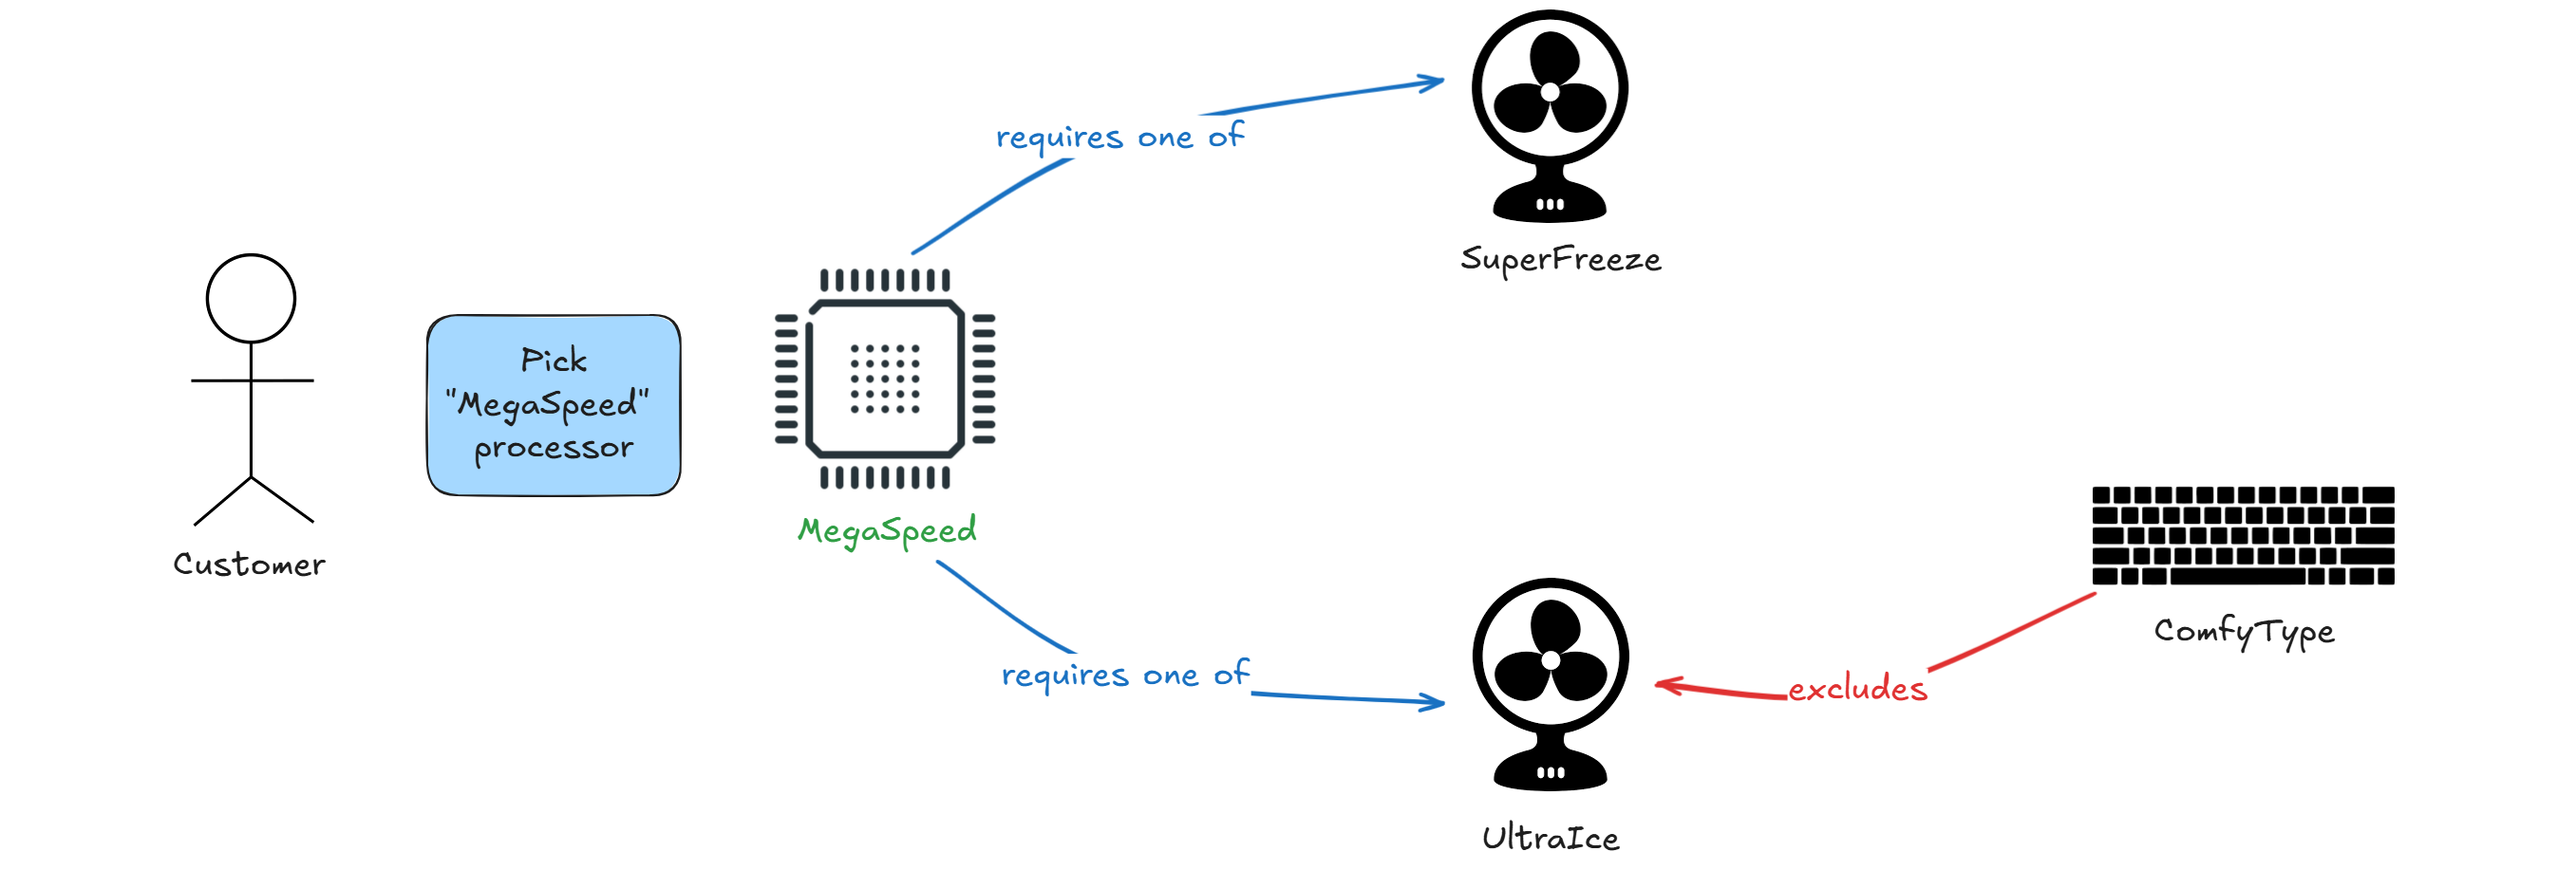
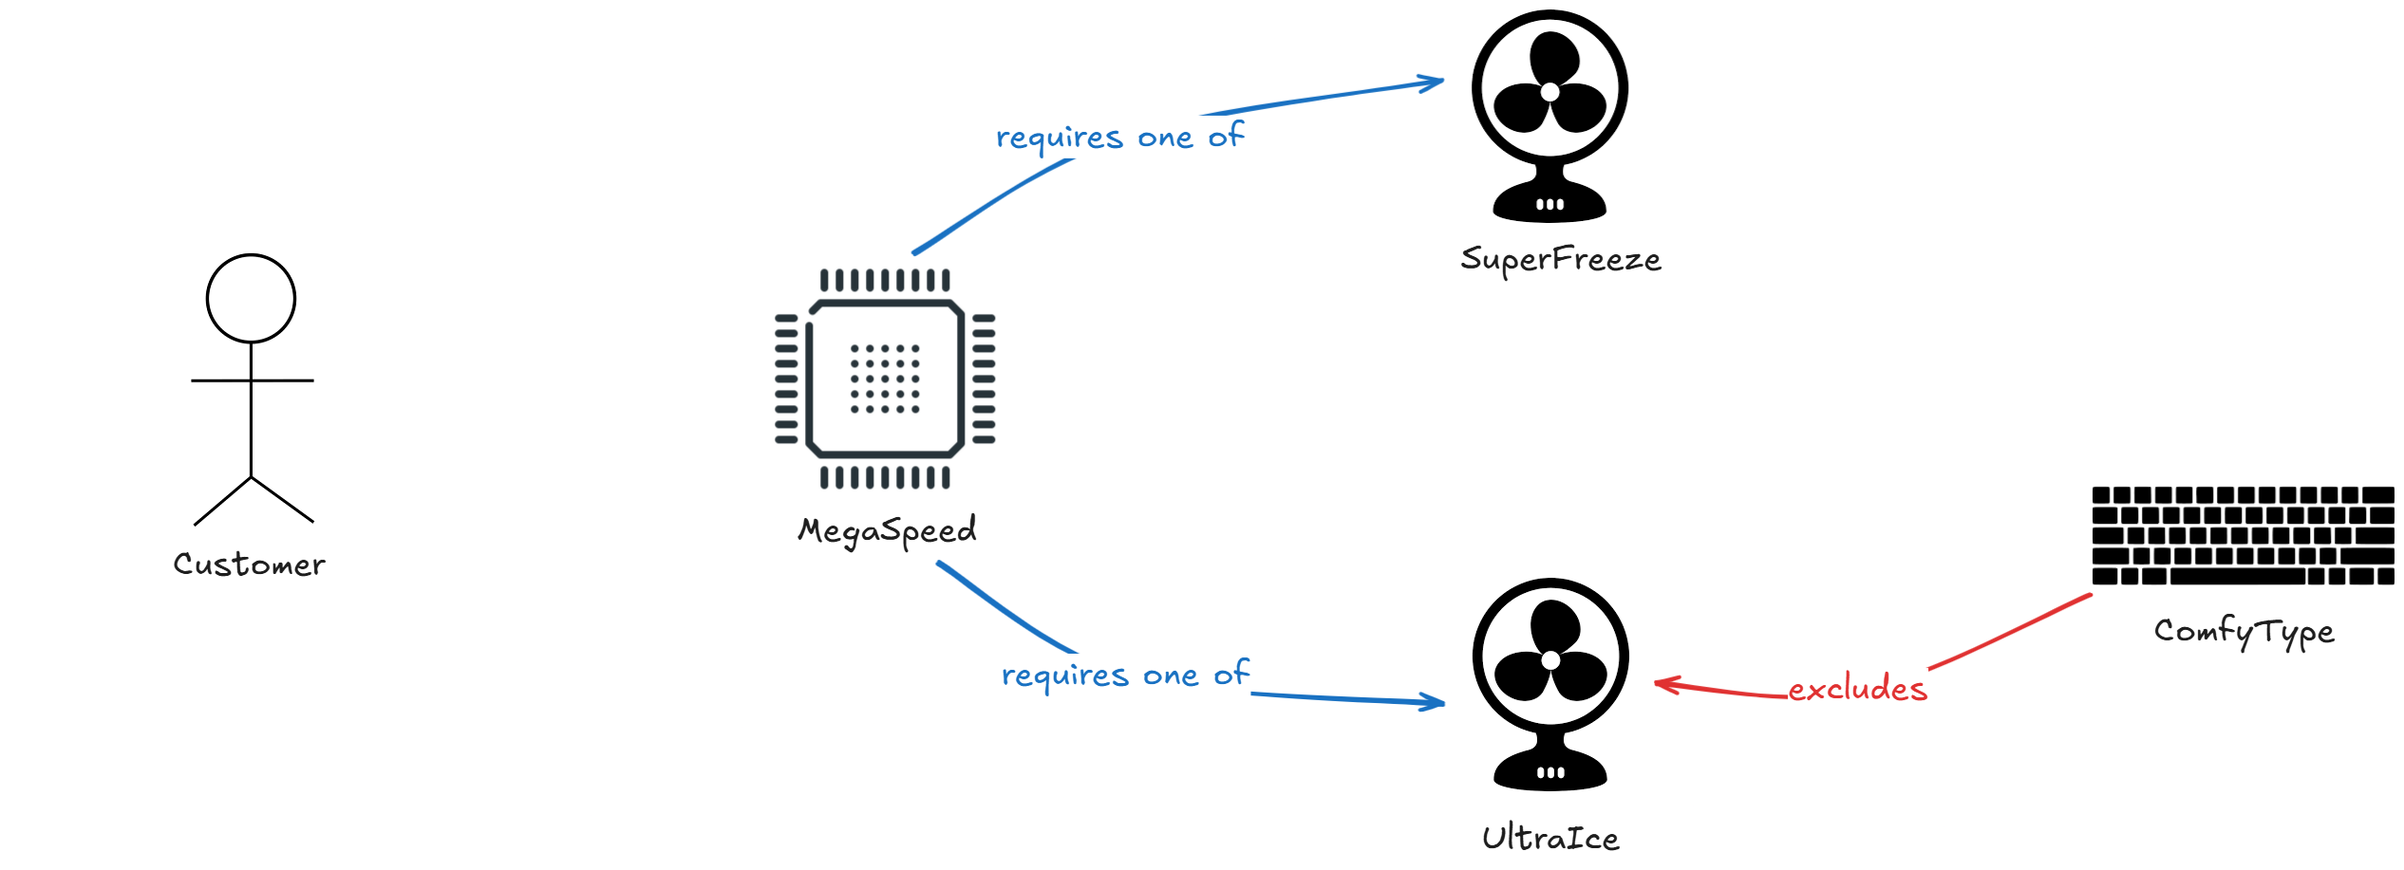
add initial state for use case #3

diff --git a/configurator/README.md b/configurator/README.md
@@ -144,8 +144,17 @@ Let's assume there are two rules:
 
 The scenario might look like followed then!
 
+##### Initial state
+
 ![System suggests automatically 1](./diagrams/system-suggests-automatically-1.png)
+
+##### First pick
+
 ![System suggests automatically 2](./diagrams/system-suggests-automatically-2.png)
+
+##### Second pick
+
+![System suggests automatically 3](./diagrams/system-suggests-automatically-3.png)
 
 ## Possible solutions
 
